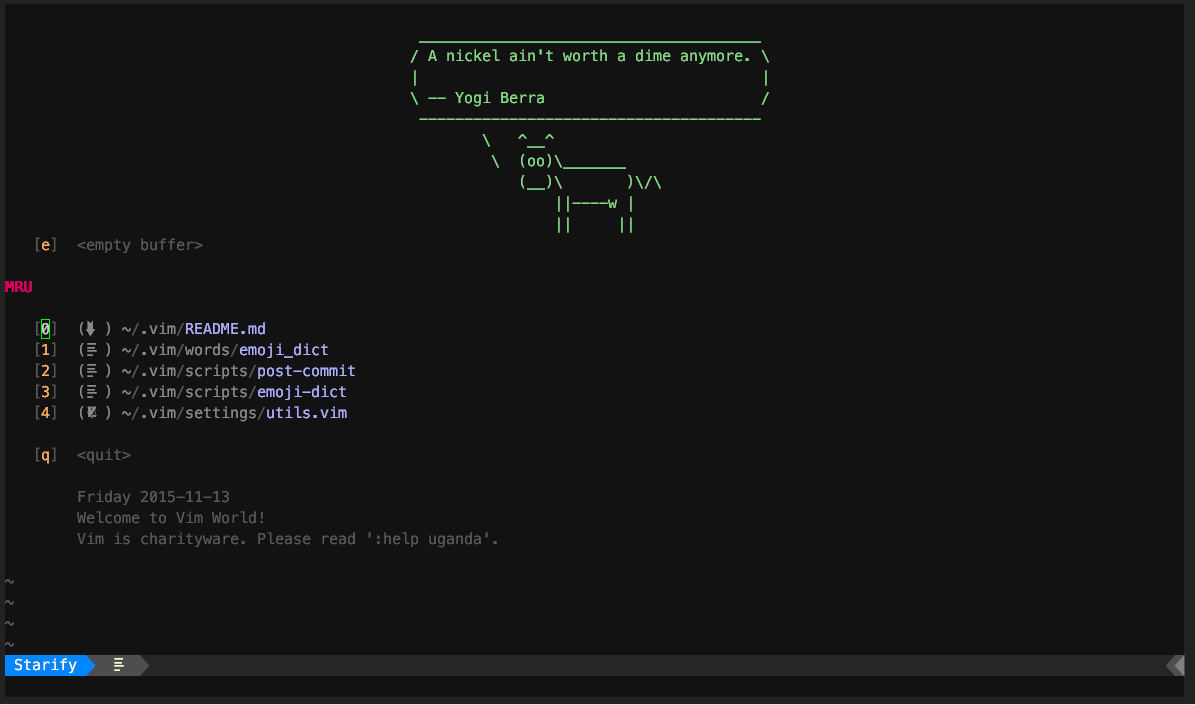
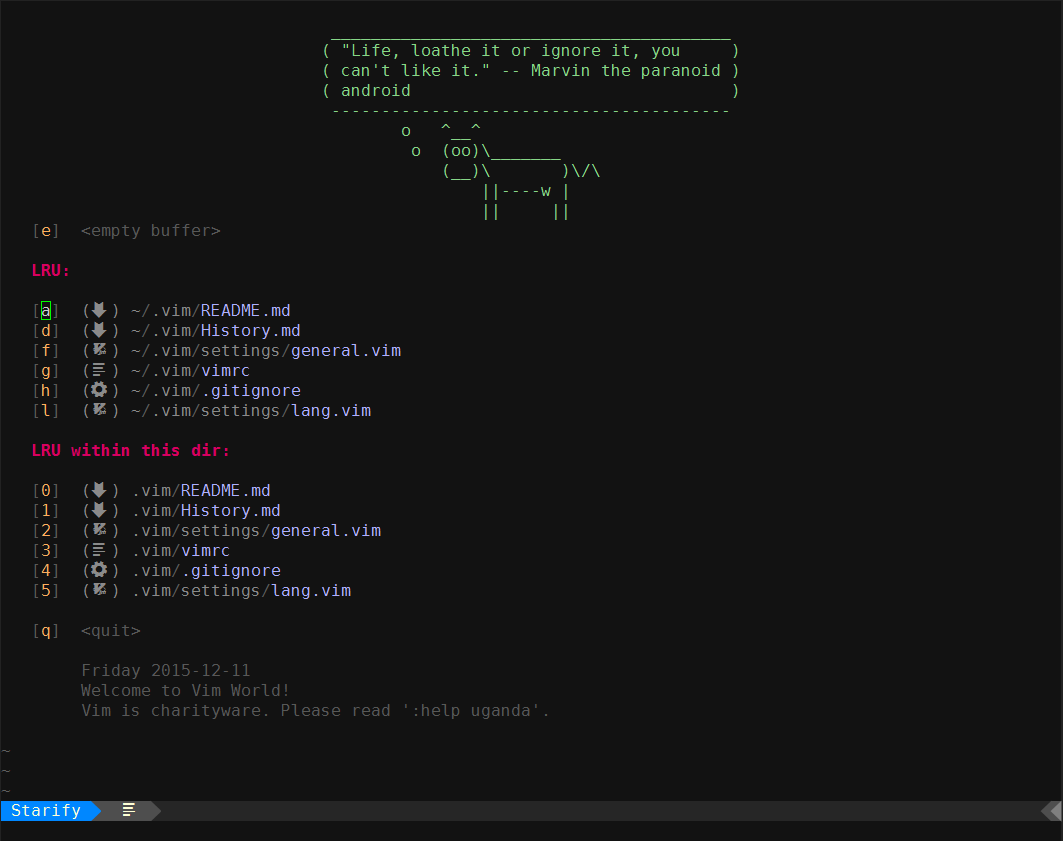
[Changed] update README and startup img

diff --git a/README.md b/README.md
@@ -154,19 +154,21 @@
 
 
 ## 许可证
-> Copyright 2015 gisphm <phmfk@hotmail.com>
->
-> Licensed under the Apache License, Version 2.0 (the "License");
-> you may not use this file except in compliance with the License.
-> You may obtain a copy of the License at
->
->> http://www.apache.org/licenses/LICENSE-2.0
->
-> Unless required by applicable law or agreed to in writing, software
-> distributed under the License is distributed on an "AS IS" BASIS,
-> WITHOUT WARRANTIES OR CONDITIONS OF ANY KIND, either express or implied.
-> See the License for the specific language governing permissions and
-> limitations under the License.
+```
+Copyright 2015 gisphm <phmfk@hotmail.com>
+
+Licensed under the Apache License, Version 2.0 (the "License");
+you may not use this file except in compliance with the License.
+You may obtain a copy of the License at
+
+    http://www.apache.org/licenses/LICENSE-2.0
+
+Unless required by applicable law or agreed to in writing, software
+distributed under the License is distributed on an "AS IS" BASIS,
+WITHOUT WARRANTIES OR CONDITIONS OF ANY KIND, either express or implied.
+See the License for the specific language governing permissions and
+limitations under the License.
+```
 
 [1]: https://github.com/spf13/spf13-vim.git
 [2]: https://github.com/gisphm/myneovimrc.git

diff --git a/History.md b/History.md
@@ -2,6 +2,7 @@
 Unreleased / 2015-12-11
 =======================
 
+  * [Changed] update README and startup img
   * [Changed] upgrade plug and update some settings
   * [Added] pymode
   * add python dict to neocomplete
